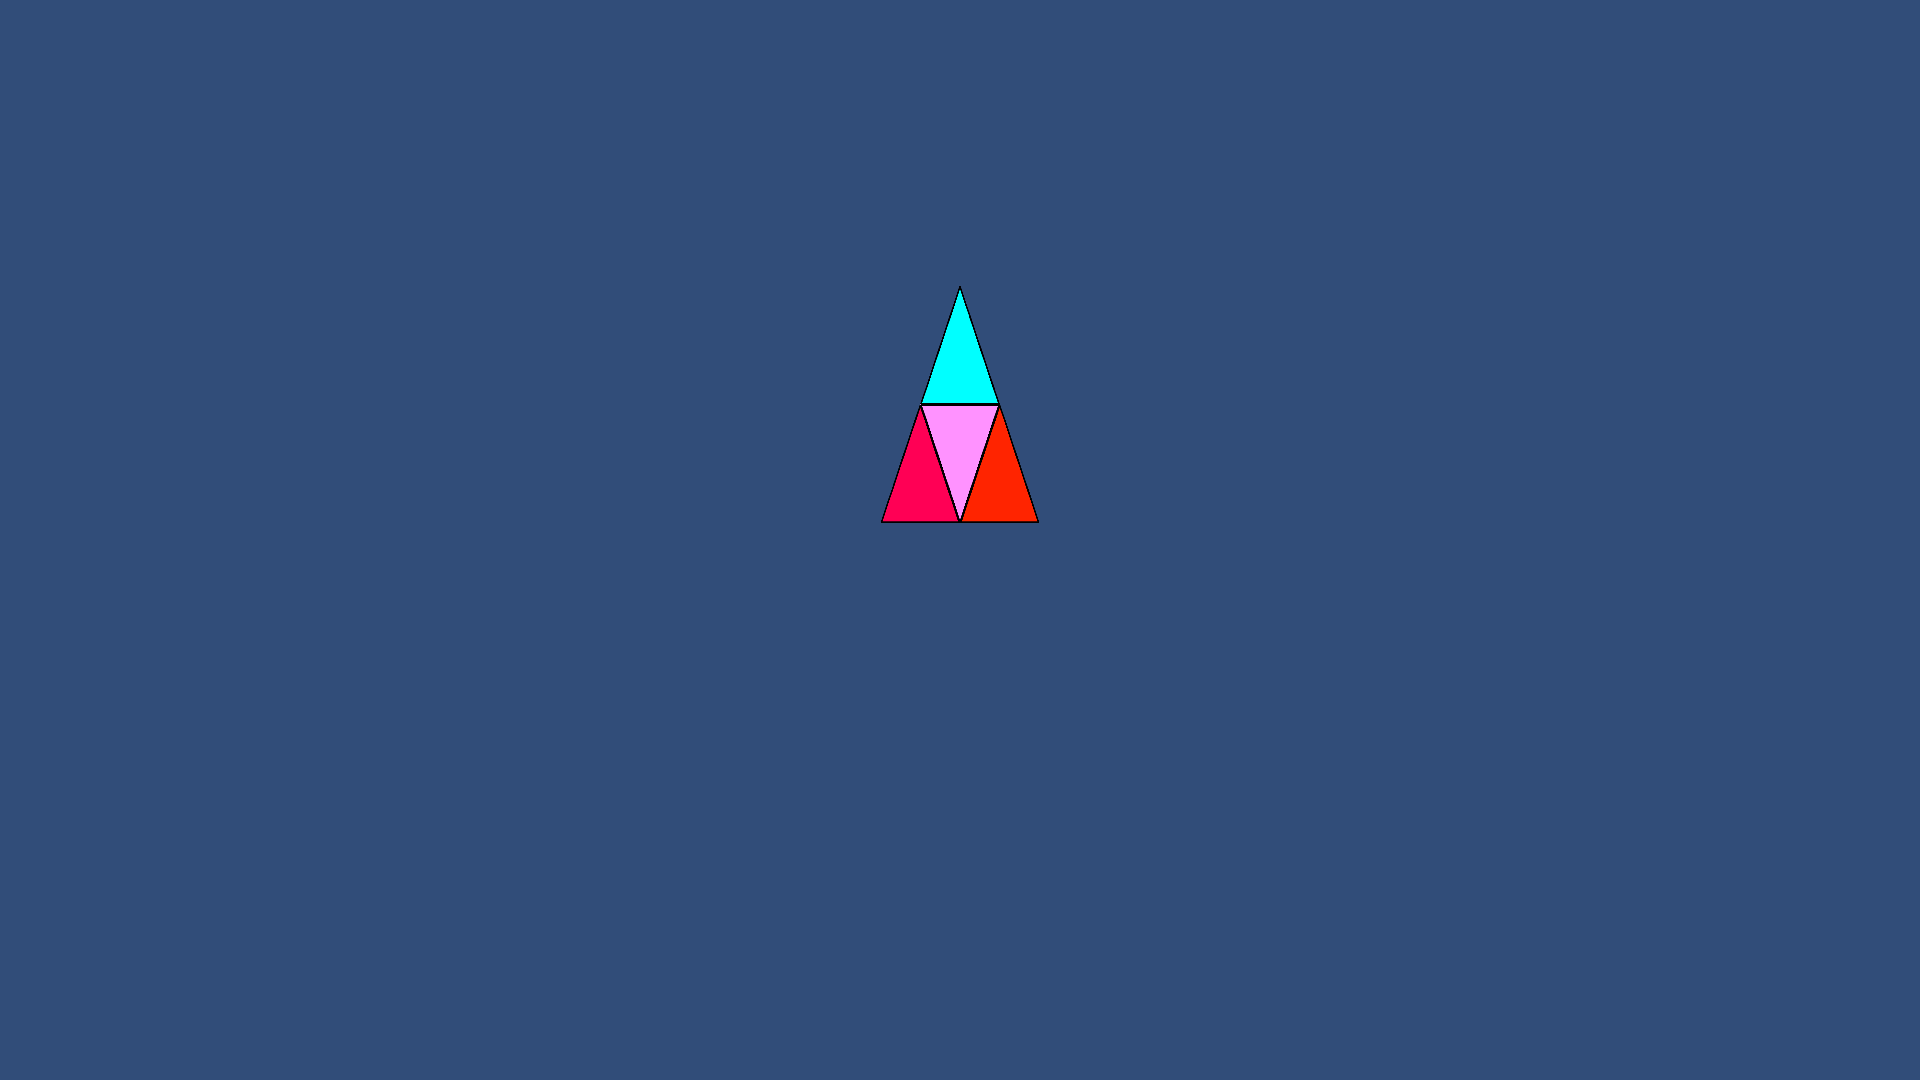
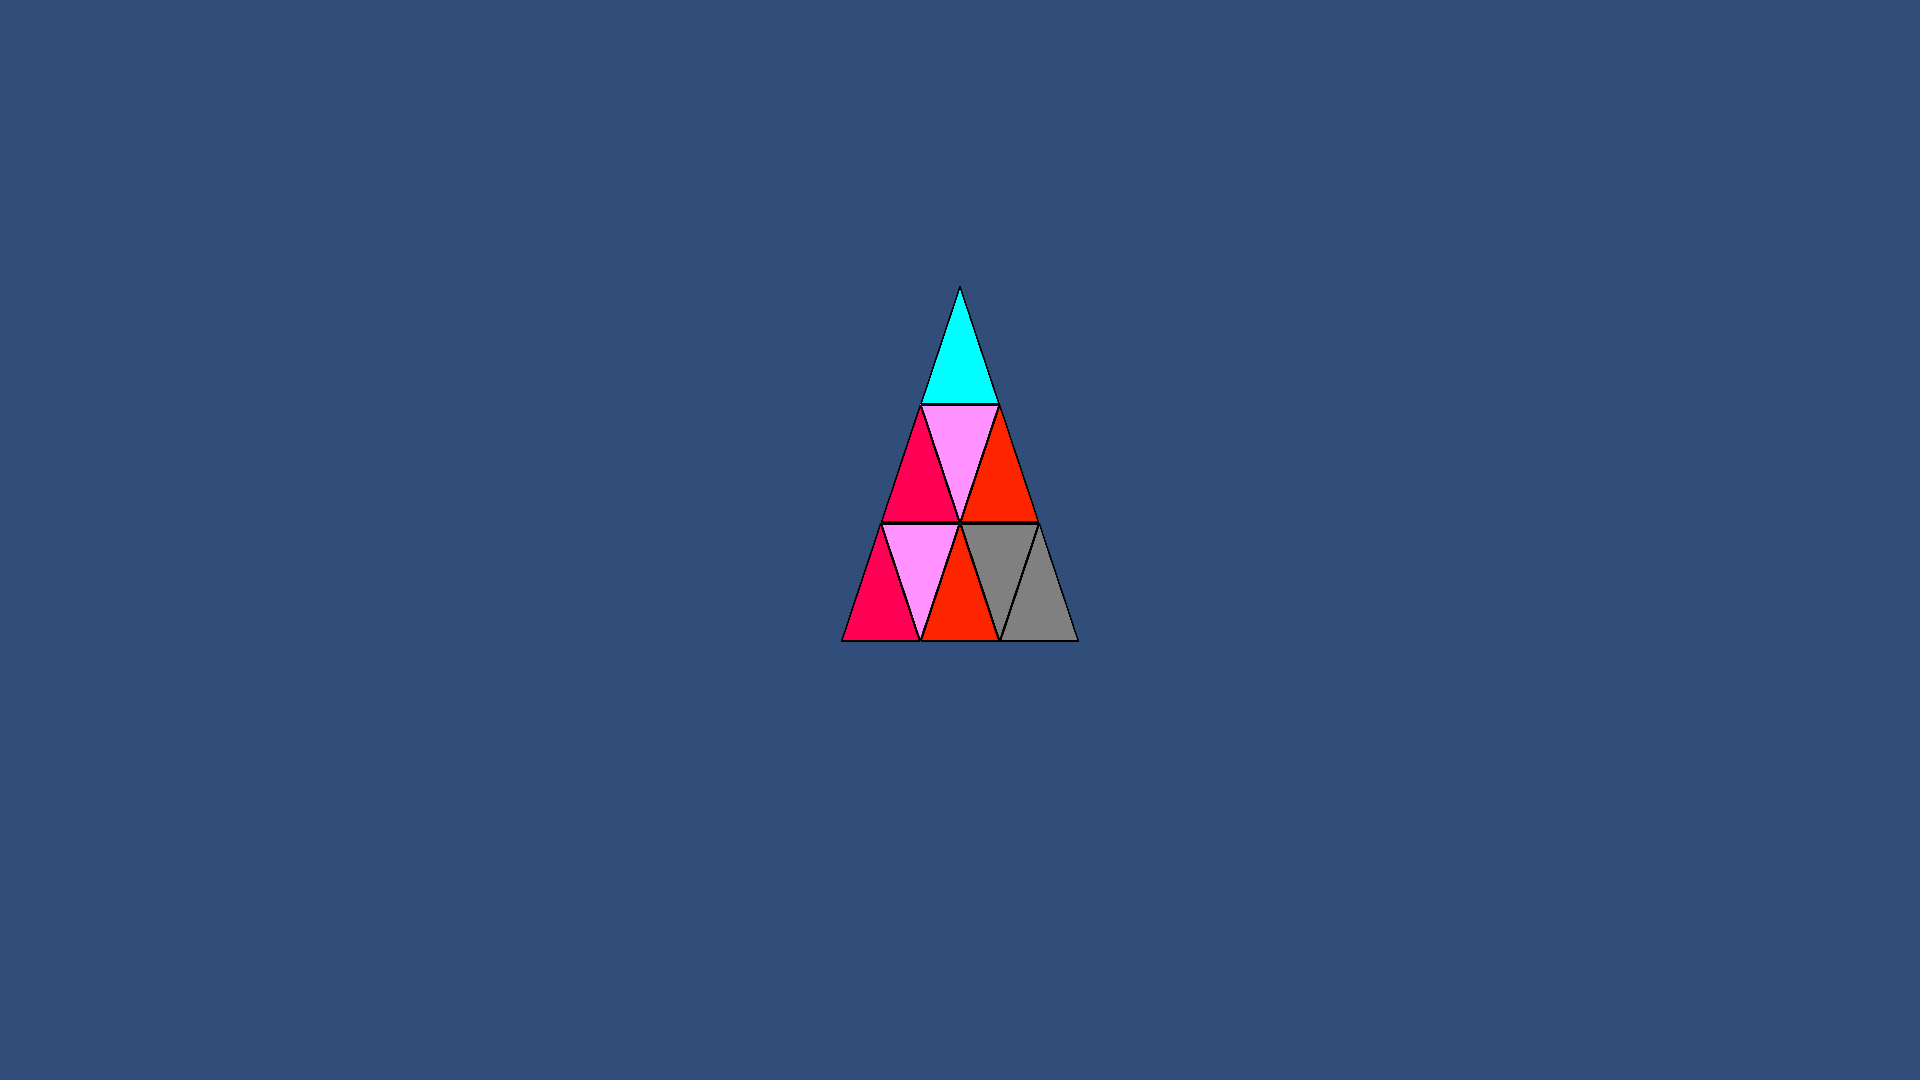
Find end and size done

Changed region(s): [[0.4375, 0.4583, 0.5625, 0.6111]]

diff --git a/Trigonix/Assets/Scripts/ProcessScreenshot.cs b/Trigonix/Assets/Scripts/ProcessScreenshot.cs
@@ -2,6 +2,7 @@ using System.Collections;
 using System.Collections.Generic;
 using UnityEngine;
 using System.IO;
+using System;
 //C:\Users\THIS USER\AppData\LocalLow\DefaultCompany\My project
 public class ProcessScreenshot : MonoBehaviour
 {
@@ -10,6 +11,8 @@ public class ProcessScreenshot : MonoBehaviour
     //[SerializeField]
     private int _pixelStepBelow = 0;
     private int _pixelStepRight = 0;
+    private Vector2Int _startOfCode;
+    private Vector2Int _endOfCode;
     private Texture2D _tex;
     private Texture2D _texBnW;
     private string _pathForEditor;
@@ -20,16 +23,26 @@ public class ProcessScreenshot : MonoBehaviour
     {
         _pathForEditor = Application.dataPath + "/../Screenshots";
         _pathForBuild = Application.persistentDataPath;
-  
+
     }
 
     public void DecodeLastScreenshot()
     {
         LoadScreenshot();
         ThresholdScreenshot();
-        FindStartAndSize();
+        FindSpecs();
 
-        //DecodeScreenshot();
+        DecodeScreenshot();
+    }
+
+
+
+    private void DecodeScreenshot()
+    {
+        //for (int i = 0; i < length; i++)
+        //{
+
+        //}
     }
 
     private void LoadScreenshot()
@@ -75,20 +88,19 @@ public class ProcessScreenshot : MonoBehaviour
 
     }
 
-    private void FindStartAndSize()
+    private void FindSpecs()
     {
-        Vector2 startOfCode = new Vector2(-1,-1);
+        Vector2 startOfCode = new Vector2(-1, -1);
         Vector2 startOfBelowStart = new Vector2(-1, -1);
+        Vector2 endOfCode = new Vector2(-1, -1);
         bool succesful = false;
         if (File.Exists(_pathForEditor + "/SavedScreenBlackAndWhite.png"))
         {
             _fileData = File.ReadAllBytes(_pathForEditor + "/SavedScreenBlackAndWhite.png");
             _texBnW = new Texture2D(2, 2);
             _texBnW.LoadImage(_fileData);
-
-            startOfCode = FindStart();
-            startOfBelowStart = FindBelowStart(startOfCode);
             succesful = true;
+
             Debug.Log("BnW Screenshot found on editor");
 
         }
@@ -97,22 +109,49 @@ public class ProcessScreenshot : MonoBehaviour
             _fileData = File.ReadAllBytes(_pathForBuild + "/SavedScreenBlackAndWhite.png");
             _texBnW = new Texture2D(2, 2);
             _texBnW.LoadImage(_fileData);
-
-            startOfCode = FindStart();
-            startOfBelowStart = FindBelowStart(startOfCode);
             succesful = true;
+
             Debug.Log("BnW Screenshot found on build");
         }
         else Debug.Log("No BnW screenshot to process was found");
-        if (succesful)
-        {
-            _pixelStepBelow = (int)(startOfCode.y - startOfBelowStart.y);
-            Debug.Log(_pixelStepBelow);
-            //_pixelStepRight = 
-        }
+        startOfCode = FindStart();
+        startOfBelowStart = FindBelowStart(startOfCode);
+        endOfCode = FindEnd(startOfCode);
+        Debug.Log(endOfCode);
+
+
+        if (!succesful) return;
+
+        _pixelStepBelow = (int)(startOfCode.y - startOfBelowStart.y);
+        Debug.Log(_pixelStepBelow);
+        Vector2 endMiddleOfFirstTriangle = new Vector2(startOfCode.x, startOfCode.y - _pixelStepBelow);
+        _pixelStepRight = FindWidth(endMiddleOfFirstTriangle);
+        Debug.Log(_pixelStepRight);
+
+        Vector2 centerOfThirdTriangle = new Vector2(startOfCode.x, (int)(startOfCode.y - _pixelStepBelow * 1.5f));
+        Debug.Log(startOfCode);
+        Debug.Log(centerOfThirdTriangle);
+
 
     }
 
+    private int FindWidth(Vector2 centerOfBottomEdge)
+    {
+        int width = 0;
+        bool found = false;
+        int x = (int)centerOfBottomEdge.x;
+        int y = (int)centerOfBottomEdge.y;
+
+        while (!found)
+        {
+            x++;
+            Color col = _texBnW.GetPixel(x, y);
+            if (col == Color.white) found = true;
+        }
+        width = (x - 1 - (int)centerOfBottomEdge.x) * 2;
+
+        return width;
+    }
 
     private Vector2 FindStart()
     {
@@ -159,6 +198,24 @@ public class ProcessScreenshot : MonoBehaviour
         if (pos == new Vector2(-666, -666)) Debug.Log("Failed to find below");
         Debug.Log(pos);
         return pos;
+    }
+
+    private Vector2 FindEnd(Vector2 startCode)
+    {
+        int x = (int)startCode.x;
+        int y = (int)startCode.y;
+        int counter = 0;
+        bool found = false;
+        while (!found)
+        {
+            if ((_texBnW.GetPixel(x, counter)) == Color.black)
+            {
+                found = true;
+            }
+            counter++;
+        }
+        Vector2 end = new Vector2(x, counter - 1);
+        return end;
     }
 
 
